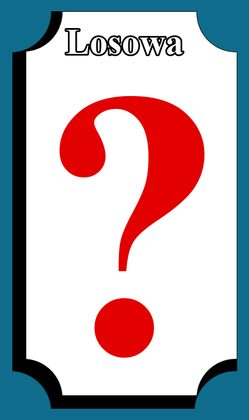
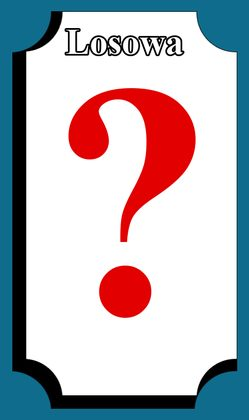
Shrink the standee's question mark, and let the fill ratio control it
At 0.80 the clearance cap was the binding constraint, trimming the mark to
484px — so nudging the ratio moved nothing and the knob lied about what it did.
At 0.60 the cap no longer binds, the mark is 15% smaller as asked, and the
number now means what it says.

Changed region(s): [[0.2249, 0.1857, 0.8434, 0.8667]]

diff --git a/scripts/make-random-card.py b/scripts/make-random-card.py
@@ -119,7 +119,7 @@ def fitted_font(height):
     return ImageFont.truetype(SERIF, size)
 
 
-def mark(draw, box, fill_ratio, by_ink=False):
+def mark(draw, box, fill_ratio, by_ink=False, cap=None):
     """Centres a red question mark in `box`, filling `fill_ratio` of its height.
 
     `by_ink` centres the visible glyph rather than the font's metrics. The two
@@ -129,7 +129,10 @@ def mark(draw, box, fill_ratio, by_ink=False):
     on the standee it reads as misaligned against a row of figures that are all
     centred in the space under their name.
     """
-    font = fitted_font(round((box[3] - box[1]) * fill_ratio))
+    height = round((box[3] - box[1]) * fill_ratio)
+    if cap:
+        height = min(height, cap)
+    font = fitted_font(height)
     if not by_ink:
         draw.text(((box[0] + box[2]) // 2, (box[1] + box[3]) // 2),
                   "?", font=font, fill=MIECZ_INK, anchor="mm")
@@ -177,10 +180,16 @@ STANDEE_WIDTH = 249
 STANDEE_TITLE = (43, 106)        # y range of the printed name
 STANDEE_SEED = (222, 150)        # a point in the white field, between the two
 
-# Goblin's figure spans y140-658 inside a field of y21-703, so it is centred in
-# the space BELOW the name (centre 404), not in the whole field (centre 362),
-# and stands about 0.87 of that space tall. The mark is matched to that.
-STANDEE_FILL = 0.78
+# The mark is centred in the white field itself, ignoring where the name sits —
+# that is what reads as "centred" next to the other figures, even though those
+# figures technically hang a little lower.
+#
+# 0.60 of the field height. It was 0.80, which the clearance below then trimmed
+# to 484px; this is 15% off that, and small enough that the clearance no longer
+# binds — so the size is now this number alone, and changing it changes the mark
+# by exactly that proportion.
+STANDEE_FILL = 0.60
+STANDEE_TITLE_GAP = 14
 
 
 def interior(im):
@@ -225,8 +234,9 @@ def build_standee():
     # The field's own extent, so the mark cannot drift if the scan is recut.
     rows = [y for y in range(st.height) if any(shape.getpixel((x, y)) for x in range(st.width))]
     span = [x for x in range(st.width) if shape.getpixel((x, (rows[0] + rows[-1]) // 2))]
-    box = (min(span), STANDEE_TITLE[1], max(span), rows[-1])
-    mark(draw, box, STANDEE_FILL, by_ink=True)
+    field = (min(span), rows[0], max(span), rows[-1])
+    clearance = round(((field[1] + field[3]) / 2 - STANDEE_TITLE[1] - STANDEE_TITLE_GAP) * 2)
+    mark(draw, field, STANDEE_FILL, by_ink=True, cap=clearance)
 
     title = fitted_font(round((STANDEE_TITLE[1] - STANDEE_TITLE[0]) * 0.72))
     outlined(
